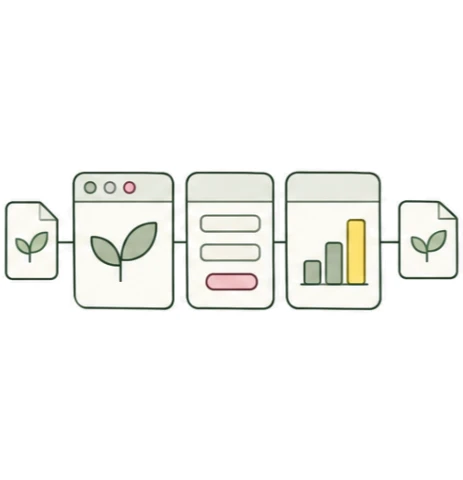
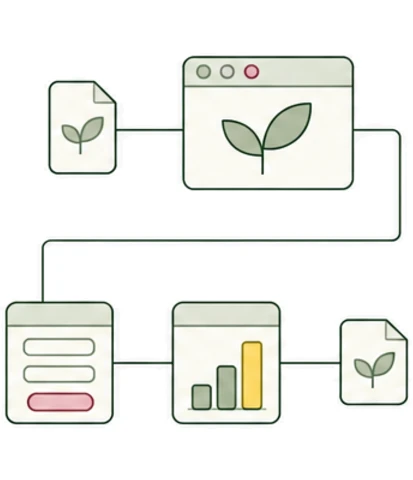
USDA case study: the Solution drawing is as tall as its neighbors
The Overview's center drawing was a strip about 145px tall in a 480px file
beside two nearly square ones. It is now two rows joined by one line, 369 by
404: the sprout document and the website, then the portal, the chart, and the
document again. width follows the file and the src takes ?v=2. resting.mjs
168 and states.mjs 97 pass on the page, the same counts as before the swap.

Changed region(s): [[0.0, 0.0938, 1.0, 0.9062]]

diff --git a/case-study/usda-operational-overhead.html b/case-study/usda-operational-overhead.html
@@ -265,7 +265,7 @@
         <div class="cc-brief">
           <div class="cc-brief-item"><h3 class="cc-kicker">Nutrition Incentive Hub</h3><p>A USDA-backed coalition supporting nutrition incentive and produce prescription projects, which put healthy food on the tables of families who need it most.</p></div>
           <div class="cc-brief-item"><img class="cc-brief-art" src="../img/site/usda-overview-problem.webp" width="429" height="480" loading="lazy" decoding="async" alt="" /><h3 class="cc-kicker">The problem</h3><p>The network ran on <strong>old software, spreadsheets, and workarounds</strong>, and no two of them agreed. Grantees spent more time chasing paperwork than running programs, and <strong>administrators couldn’t tell which programs were working</strong>.</p></div>
-          <div class="cc-brief-item"><img class="cc-brief-art" src="../img/site/usda-overview-solution.webp" width="463" height="480" loading="lazy" decoding="async" alt="" /><h3 class="cc-kicker">The solution</h3><p>I led the design of <strong>one platform to replace all of it</strong>: a public website, a portal where grantees apply and report, and the Power BI reports administrators read. One record carries each grant from application to analysis, and <strong>grantees and administrators could finally trust what they found</strong>.</p></div>
+          <div class="cc-brief-item"><img class="cc-brief-art" src="../img/site/usda-overview-solution.webp?v=2" width="413" height="480" loading="lazy" decoding="async" alt="" /><h3 class="cc-kicker">The solution</h3><p>I led the design of <strong>one platform to replace all of it</strong>: a public website, a portal where grantees apply and report, and the Power BI reports administrators read. One record carries each grant from application to analysis, and <strong>grantees and administrators could finally trust what they found</strong>.</p></div>
           <div class="cc-brief-item"><img class="cc-brief-art" src="../img/site/usda-overview-part.webp" width="425" height="480" loading="lazy" decoding="async" alt="" /><h3 class="cc-kicker">My part</h3><p><strong>I led the research, information architecture, visual design, and design system</strong> across the four roles in the map below, and checked each pattern against WCAG 2.1 AA. Developers built the website, the portal, and the Power BI reports, and the center&rsquo;s staff decided what came first.</p></div>
         </div>
       </div>
